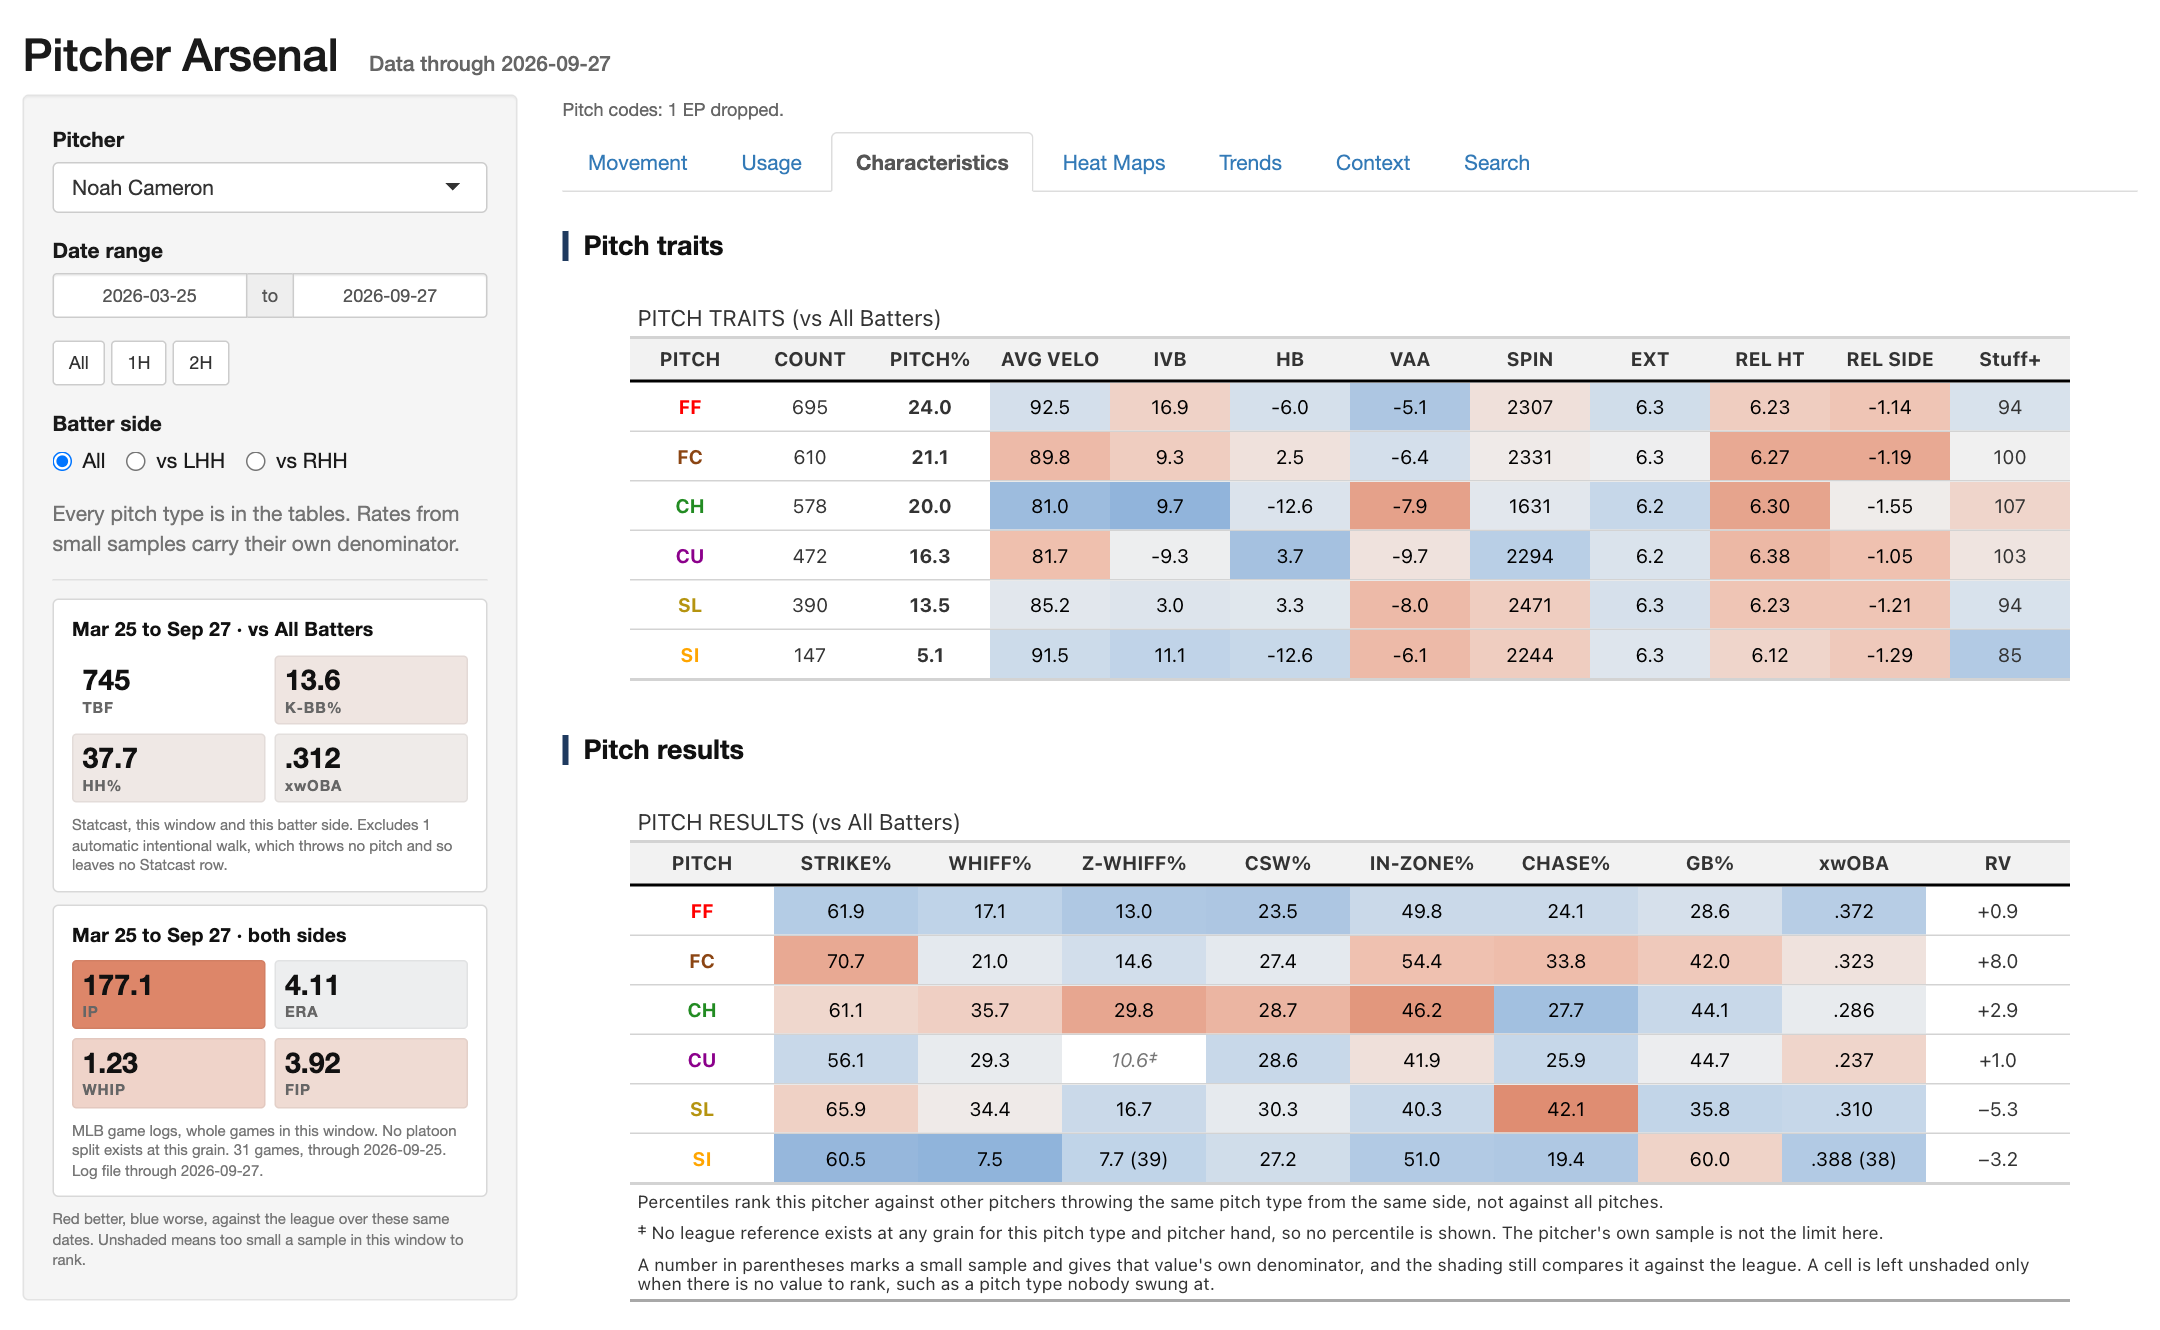
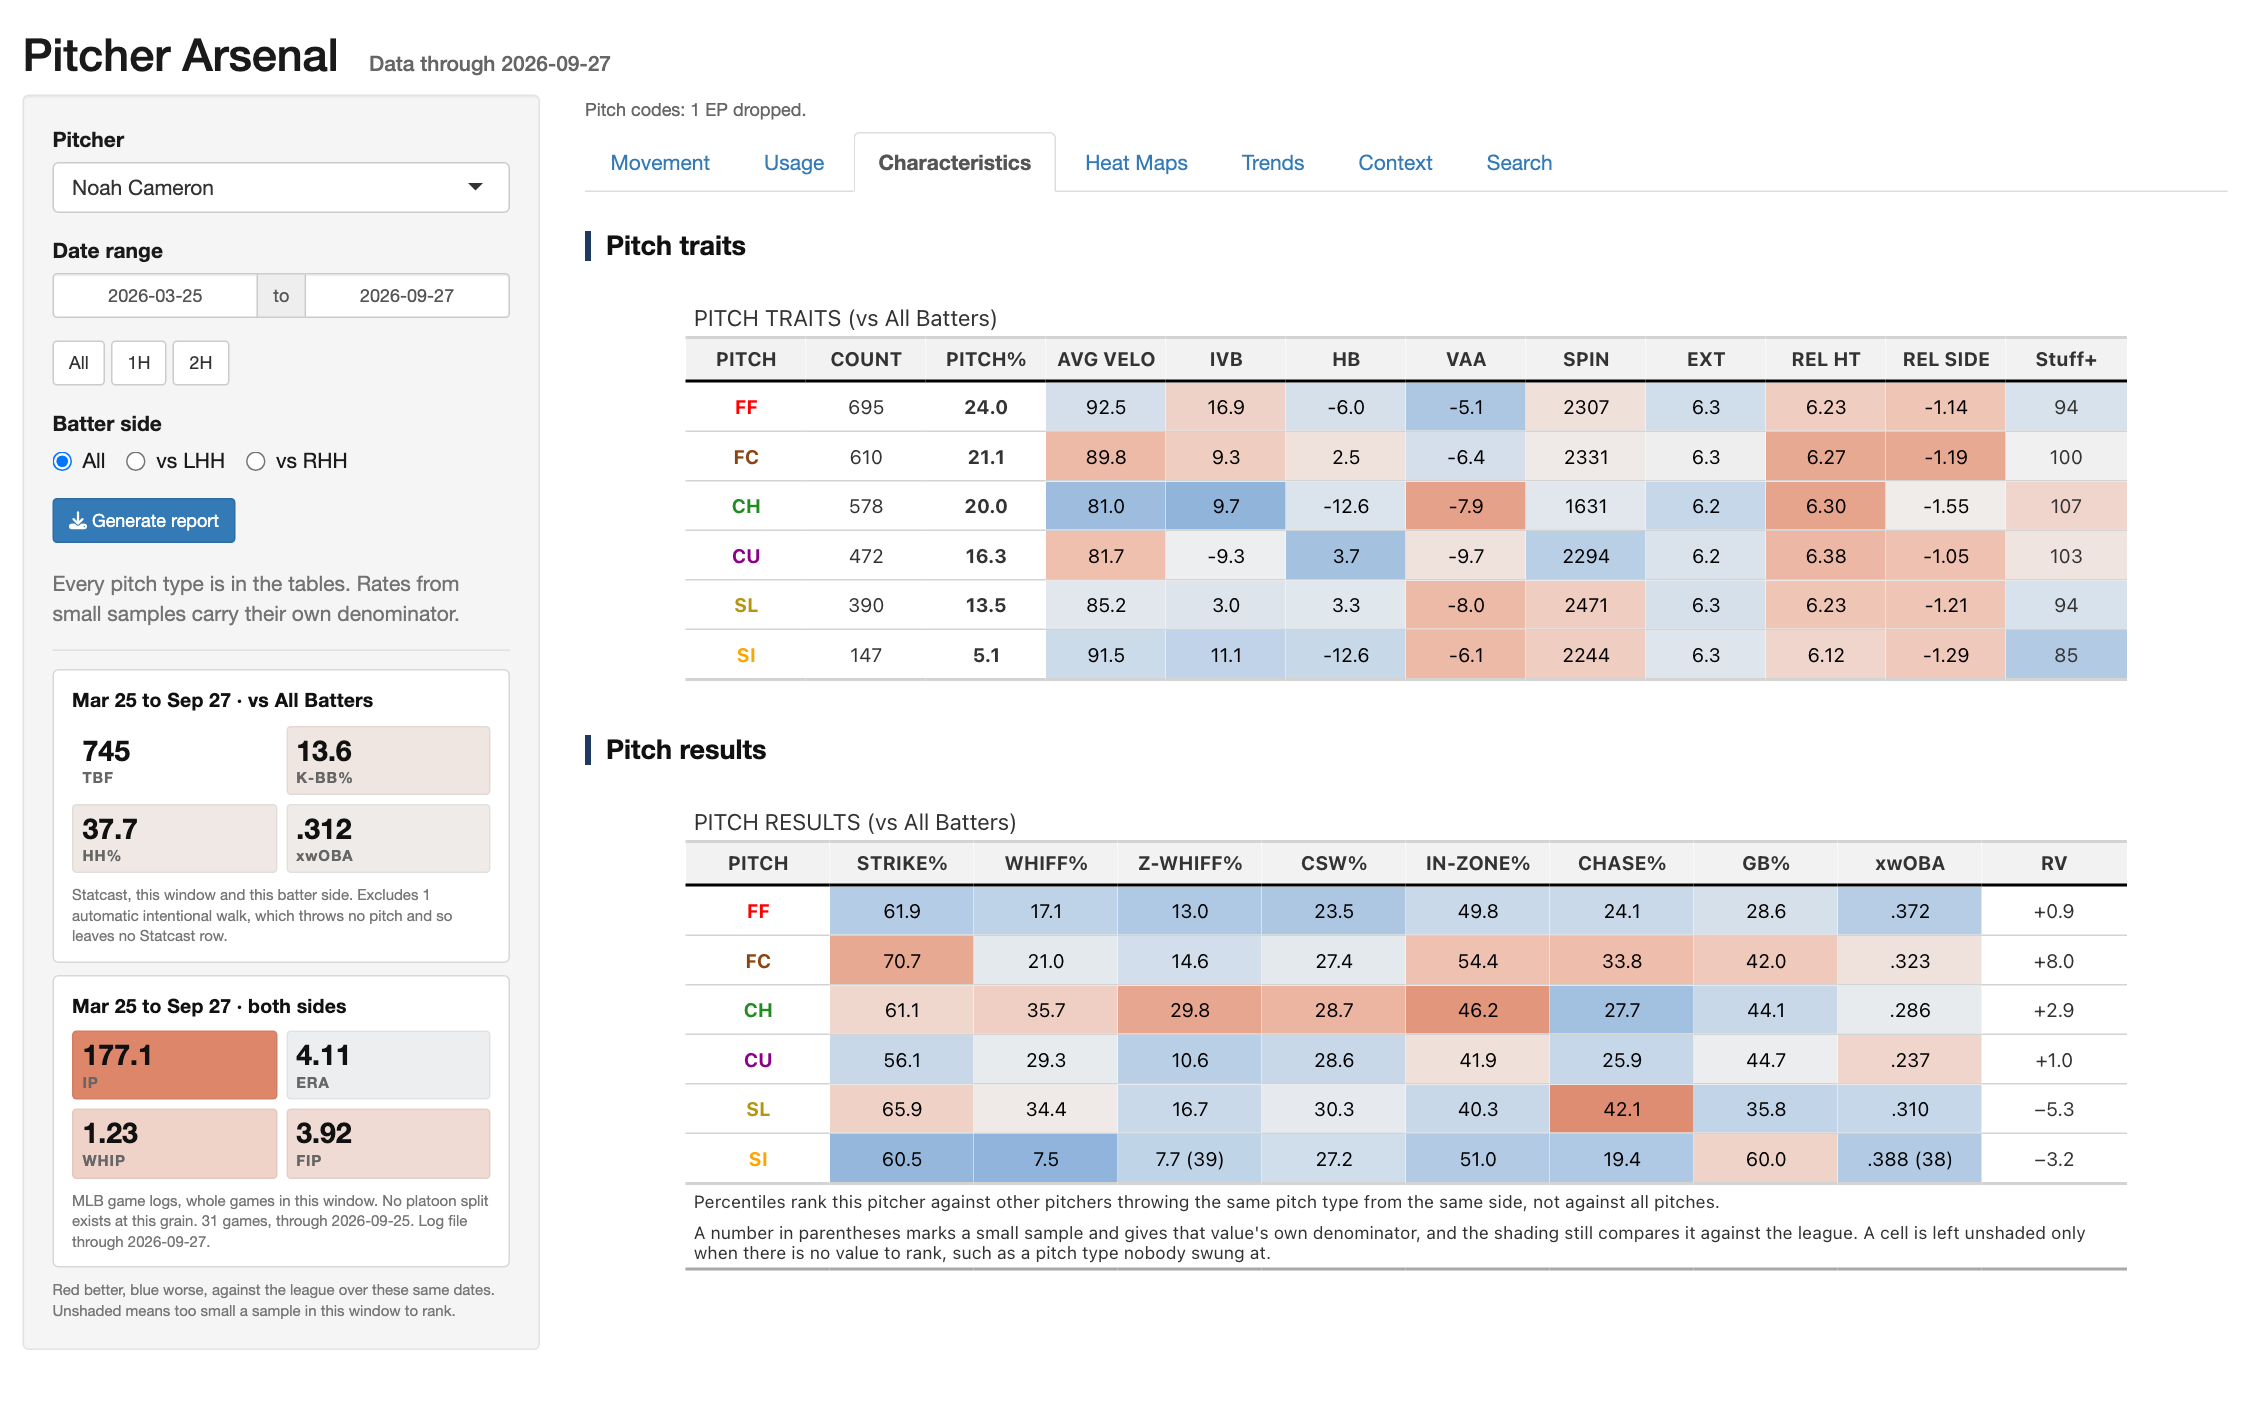
Docs: coach sheet, fresh screenshots, link to the Stuff+ model repo (#33)
README and changelog cover the coach sheet. Screenshots retaken from the live
app. R/report.R comments trimmed; code unchanged.

diff --git a/docs/methodology.md b/docs/methodology.md
@@ -109,7 +109,7 @@ The panel has two rows from two sources, kept separate because they support diff
 
 ## Stuff+
 
-Stuff+ grades come from a separate model (v2), built in its own repository: how often a pitch's shape misses bats when swung at, validated on the held-out 2026 season. 100 is the average pitch within its group (fastball: FF, SI, FC; offspeed: CH, FS; hard breaker: SL; soft breaker: ST, SV, CU), and 10 points is one standard deviation within the group. It reads velocity, movement, release point, the gap to the pitcher's hardest fastball, batter side and the gap between movement and spin axis; never the pitch label, count or location.
+Stuff+ grades come from a separate model (v2), built in [its own repository](https://github.com/jbmerlin3/stuff-plus): how often a pitch's shape misses bats when swung at, validated on the held-out 2026 season. 100 is the average pitch within its group (fastball: FF, SI, FC; offspeed: CH, FS; hard breaker: SL; soft breaker: ST, SV, CU), and 10 points is one standard deviation within the group. It reads velocity, movement, release point, the gap to the pitcher's hardest fastball, batter side and the gap between movement and spin axis; never the pitch label, count or location.
 
 The 2026 grades ship as daily sums in `lookups/stuff_v2_2026.csv`, so a grade follows the date window and the batter side selector. "All" weights both batter sides 50/50. A grade compares a pitch with its own group: a 110 sinker and a 110 sweeper are each well above their group, not equally nasty.
 

diff --git a/README.md b/README.md
@@ -2,7 +2,7 @@
 
 **Live app: [jonathanmerlin.shinyapps.io/pitcher-arsenal](https://jonathanmerlin.shinyapps.io/pitcher-arsenal/)** (it sleeps when idle and can take up to a minute to wake)
 
-A Shiny app that shows any pitcher's movement, usage, pitch characteristics and heat maps within major league context, filtered by date range or batter handedness. Its search feature finds pitchers by specific criteria, such as fastballs above 90 mph.
+A Shiny app that shows any pitcher's movement, usage, pitch characteristics and heat maps within major league context, filtered by date range or batter handedness. Its search feature finds pitchers by specific criteria, such as fastballs above 90 mph. A Generate report button downloads a one-page coach sheet PDF for the current pitcher, dates and batter side.
 
 ![Pitch characteristics with league context](docs/screenshot-characteristics.png)
 
@@ -69,7 +69,7 @@ Rscript tests/run_all.R
 
 ```
 app.R          UI and server; logic lives in R/
-R/             data loading, features, league context, tables, plots, search, results
+R/             data loading, features, league context, tables, plots, search, results, report
 scripts/       the data chain, deploy, verification against Savant, local monitoring
 tests/         test files and fixtures; run_all.R runs them
 lookups/       small tracked tables: listed heights, position players, Stuff+ grades

diff --git a/CHANGELOG.md b/CHANGELOG.md
@@ -2,6 +2,12 @@
 
 Dated milestones, newest first. Numbers in parentheses are pull requests.
 
+## 2026-10-22 to 10-28: Coach sheet
+
+- Generate report: a one-page coach sheet PDF for the current pitcher, dates and batter side (#30).
+- Both batter sides on an All sheet, and release drawn from the pitcher's view (#31). A one-side sheet shows usage for that side only (#32).
+- Fallback cells no longer carry a marker (#28). Listed heights refreshed (#29).
+
 ## 2026-10-22: Off-season
 
 - Test runner (`tests/run_all.R`) and documentation in `docs/`.

diff --git a/docs/pipeline.md b/docs/pipeline.md
@@ -45,7 +45,7 @@ Tracked lookups under `lookups/` change rarely and are refreshed by hand, outsid
 |---|---|
 | `pitcher_heights_2026.csv` | `scripts/build_pitcher_heights.R` |
 | `position_players_2026.csv` | `scripts/build_position_players.R` |
-| `stuff_v2_2026.csv`, `stuff_v2_scale.csv` | exported from the Stuff+ model repository |
+| `stuff_v2_2026.csv`, `stuff_v2_scale.csv` | exported from the [Stuff+ model repository](https://github.com/jbmerlin3/stuff-plus) |
 
 ## Deploy
 
